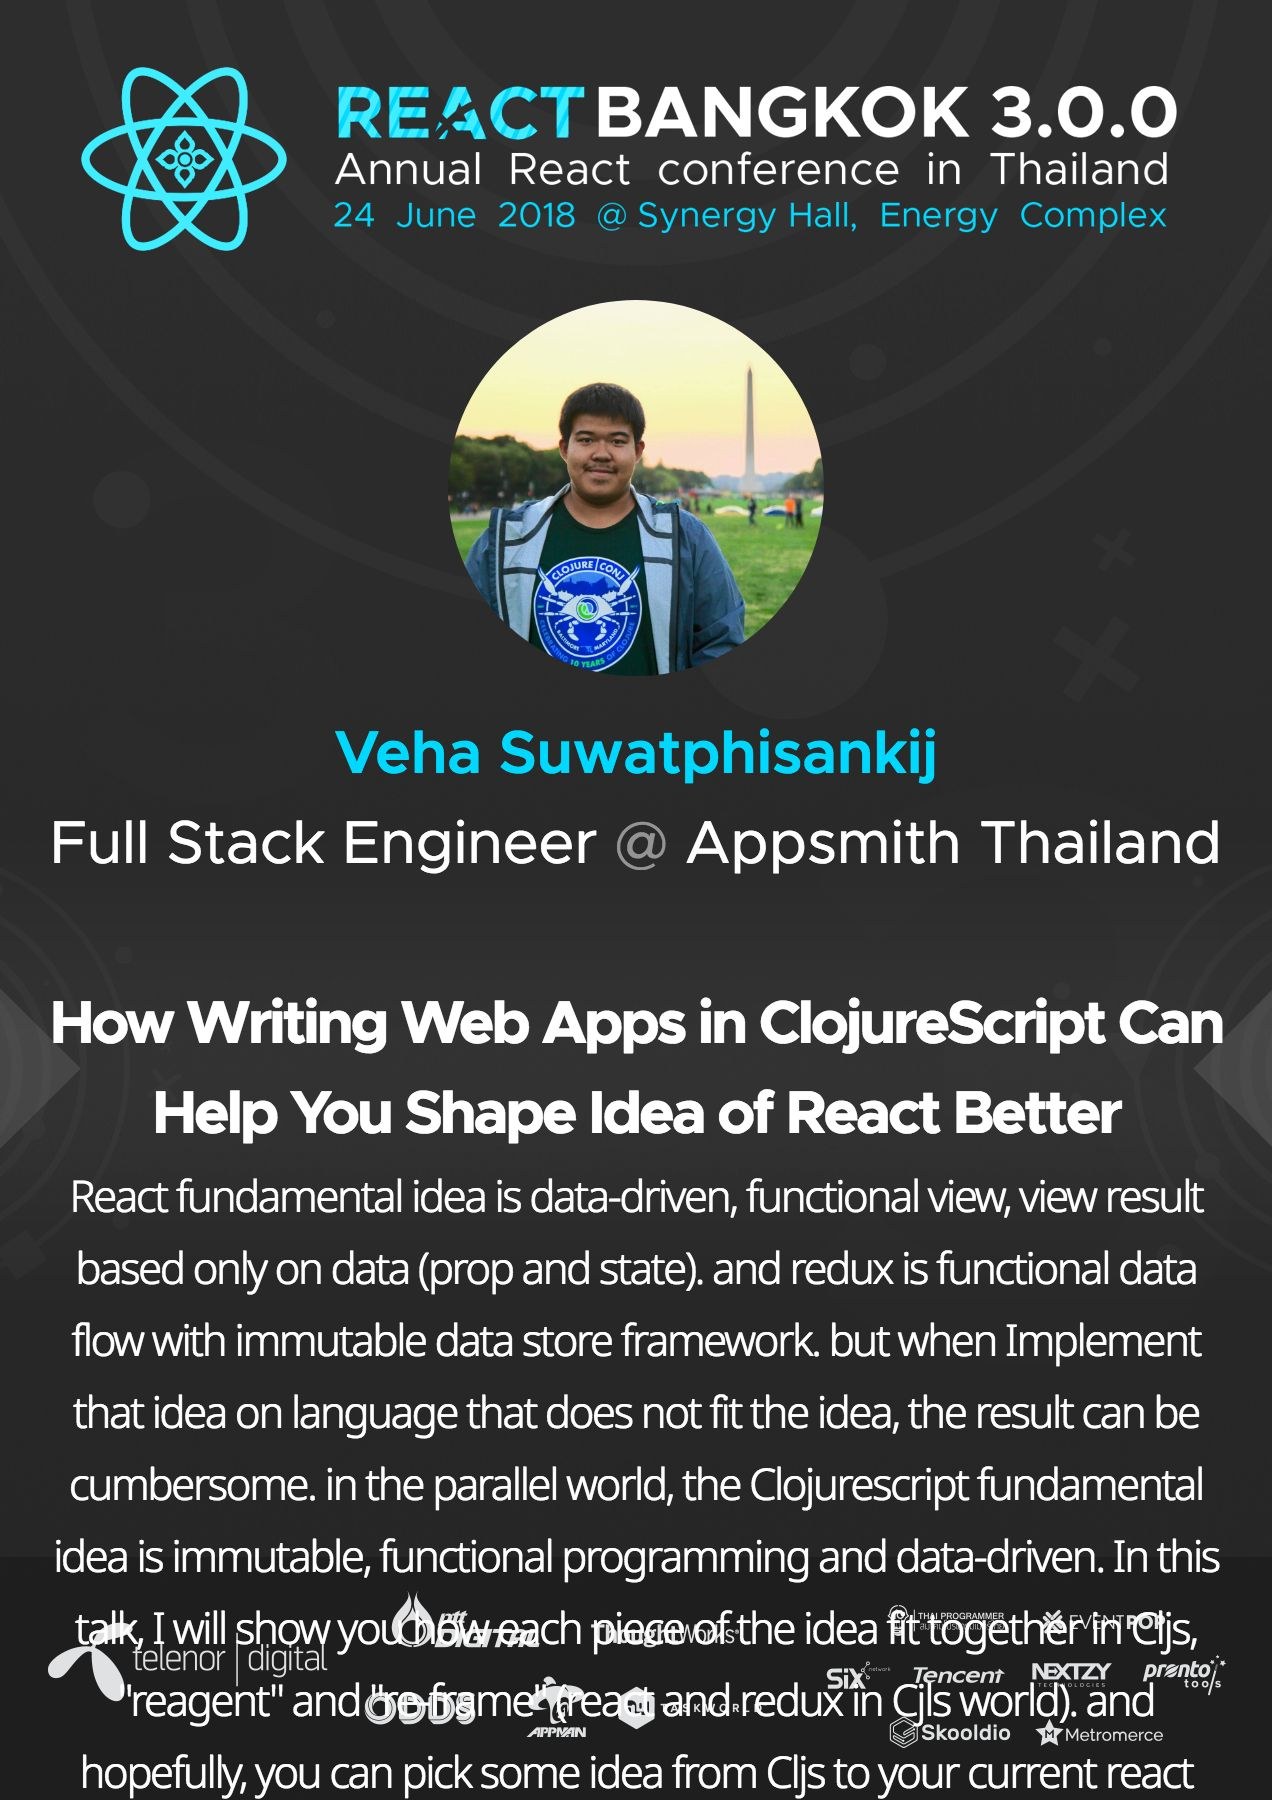
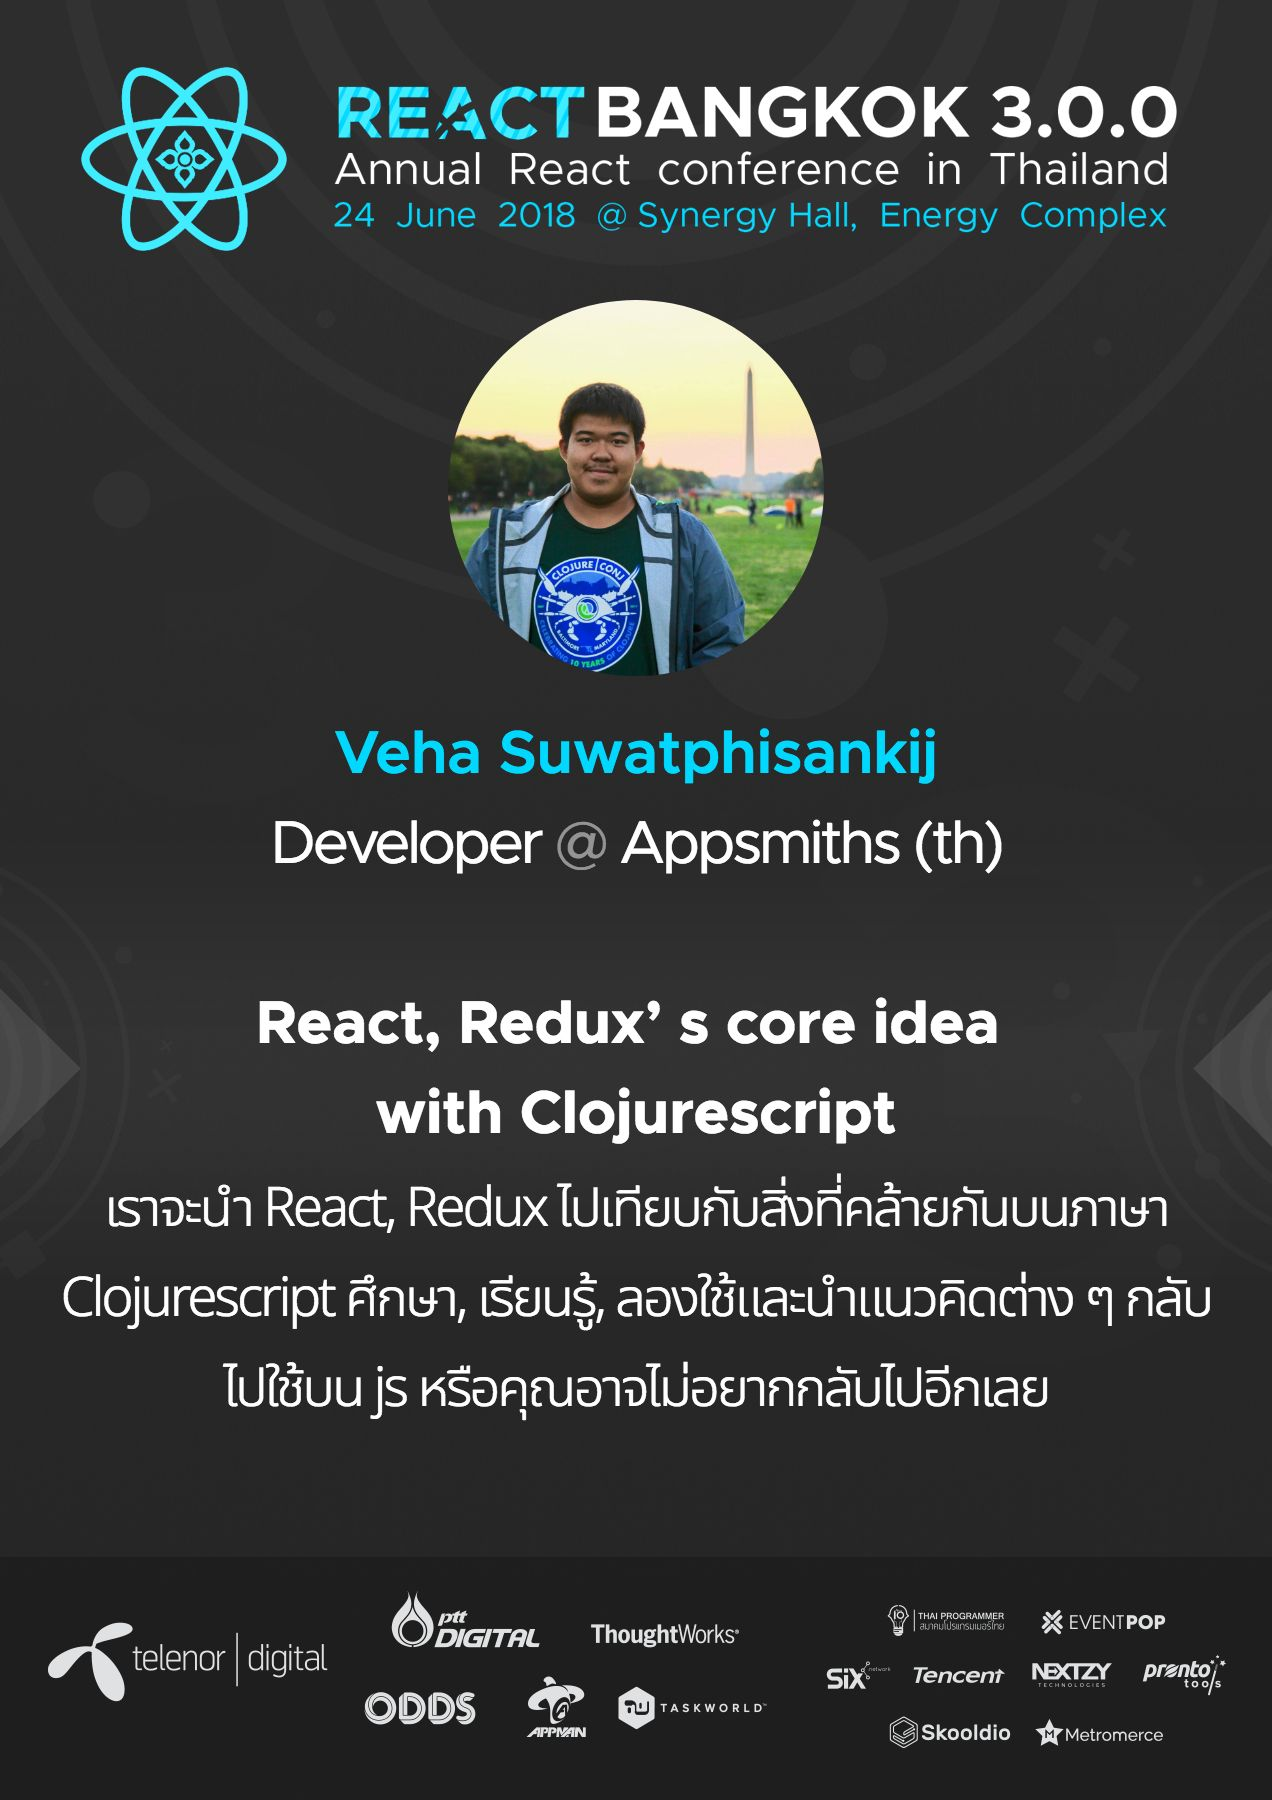
update speaker content

Changed region(s): [[0.0307, 0.5289, 0.9811, 1.0], [0.0307, 0.4356, 0.9505, 0.4978]]

diff --git a/src/index.js b/src/index.js
@@ -117,31 +117,22 @@ export const speakers = {
     <Speaker
       name="Veha Suwatphisankij"
       position={
-        <div>
-          Full Stack Engineer <At /> Appsmith Thailand
-        </div>
+        <Text tight>
+          Developer<At />Appsmiths (th)
+        </Text>
       }
       title={
-        <Text tight>
-          {/* React and Redux in Another Perspective: */}
-          How Writing Web Apps in ClojureScript Can Help You Shape Idea of React
-          Better
+        <Text>
+          React, Redux’ s core idea <br />with Clojurescript
         </Text>
       }
       description={
         <Text tight>
-          React fundamental idea is data-driven, functional view, view result
-          based only on data (prop and state). and redux is functional data flow
-          with immutable data store framework. but when Implement that idea on
-          language that does not fit the idea, the result can be cumbersome. in
-          the parallel world, the Clojurescript fundamental idea is immutable,
-          functional programming and data-driven. In this talk, I will show you
-          how each piece of the idea fit together in Cljs, "reagent" and
-          "re-frame" (react and redux in Cjls world). and hopefully, you can
-          pick some idea from Cljs to your current react project
+          เราจะนำ React, Redux ไปเทียบกับสิ่งที่คล้ายกันบนภาษา Clojurescript
+          ศึกษา, เรียนรู้, ลองใช้และนำแนวคิดต่าง ๆ กลับไปใช้บน js
+          หรือคุณอาจไม่อยากกลับไปอีกเลย
         </Text>
       }
-      descriptionScale={4 / 5}
       photo={require('./photo/veha.jpg')}
     />
   ),
